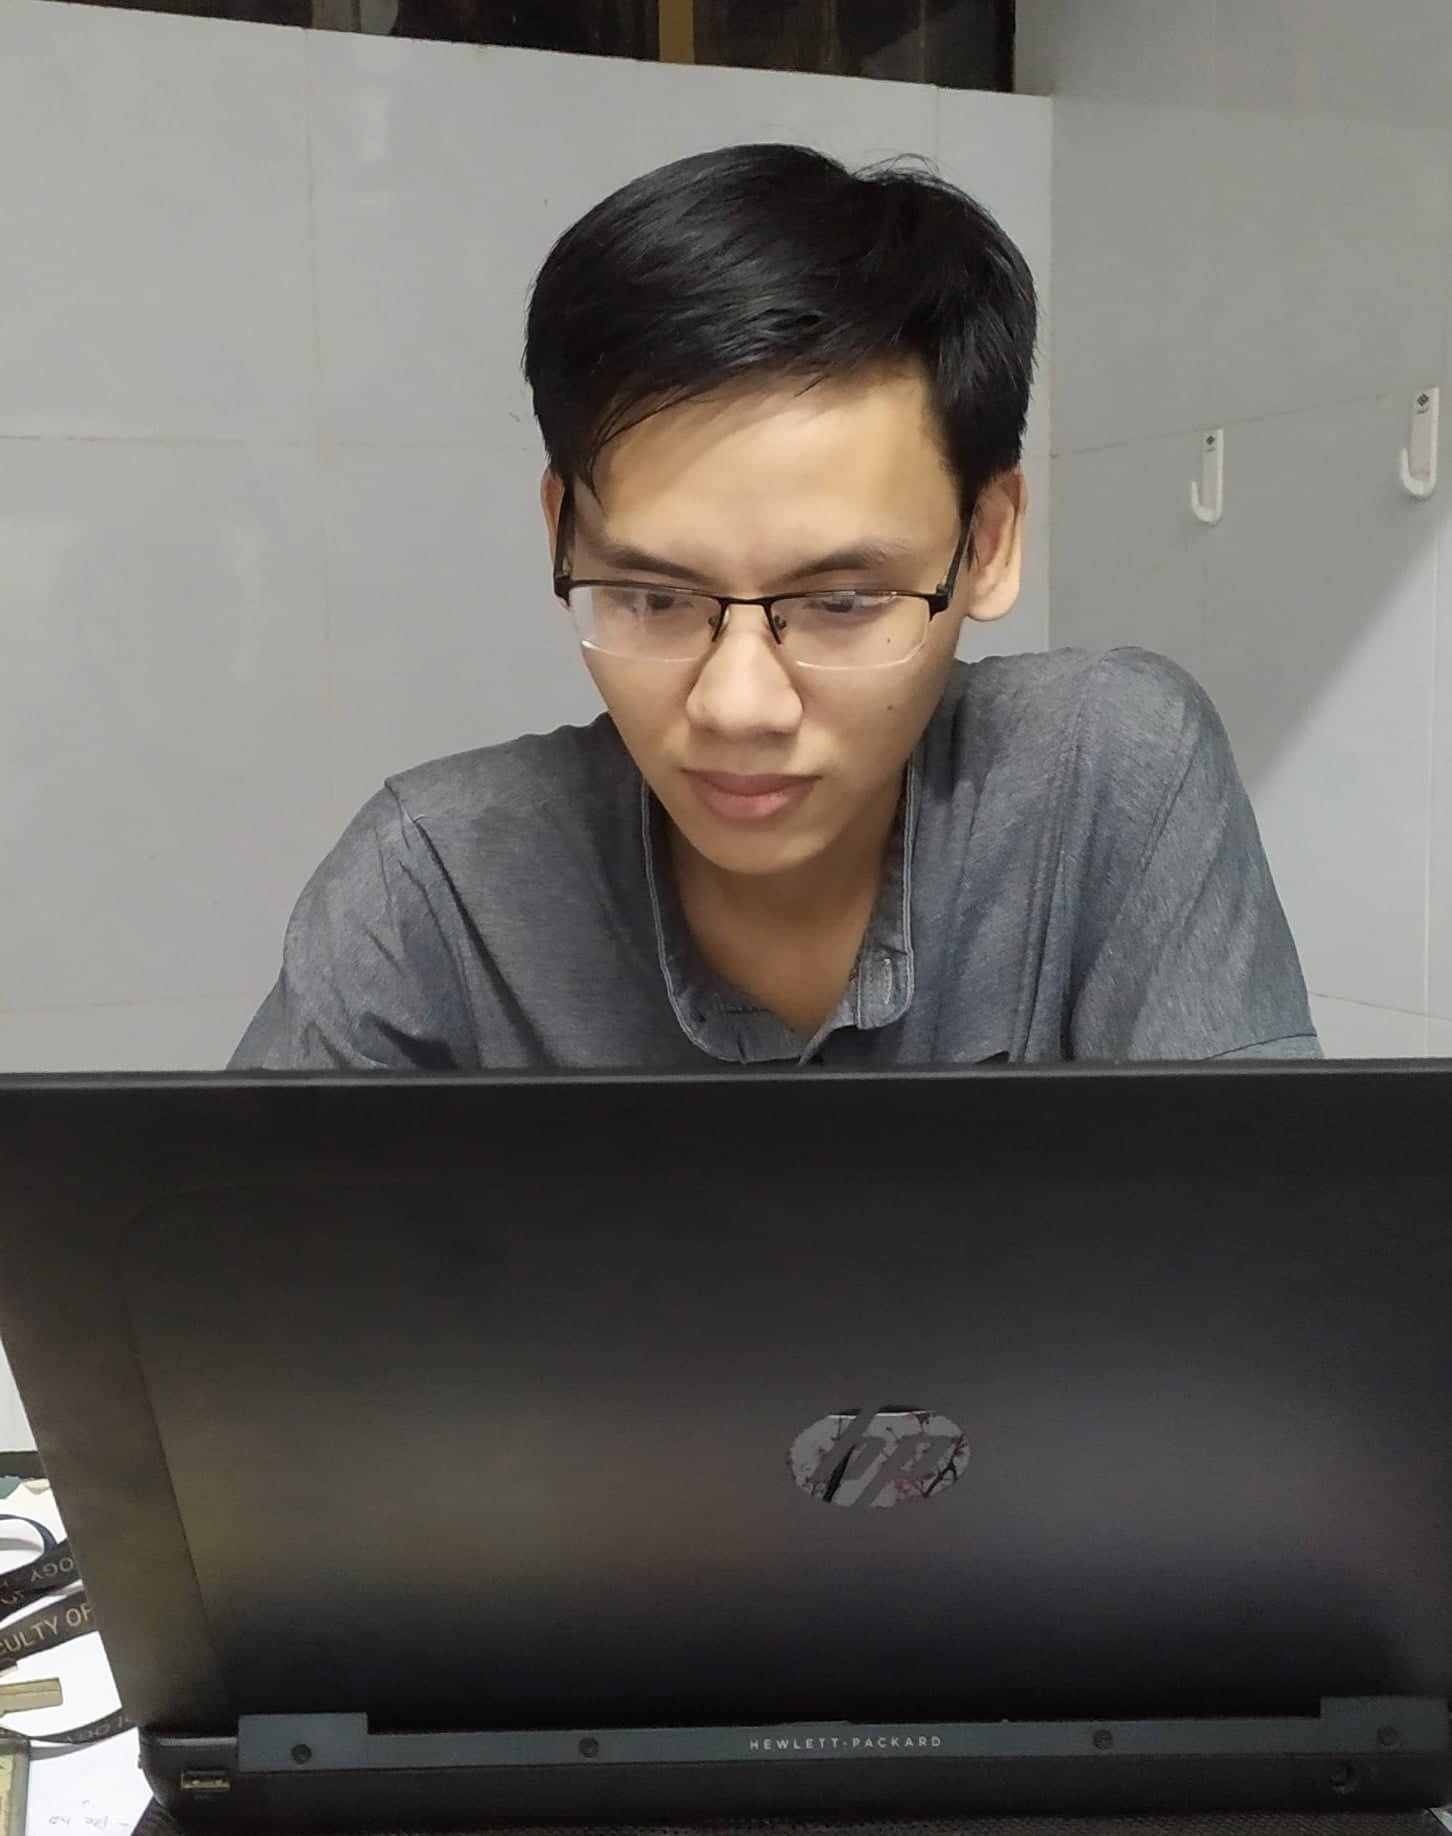
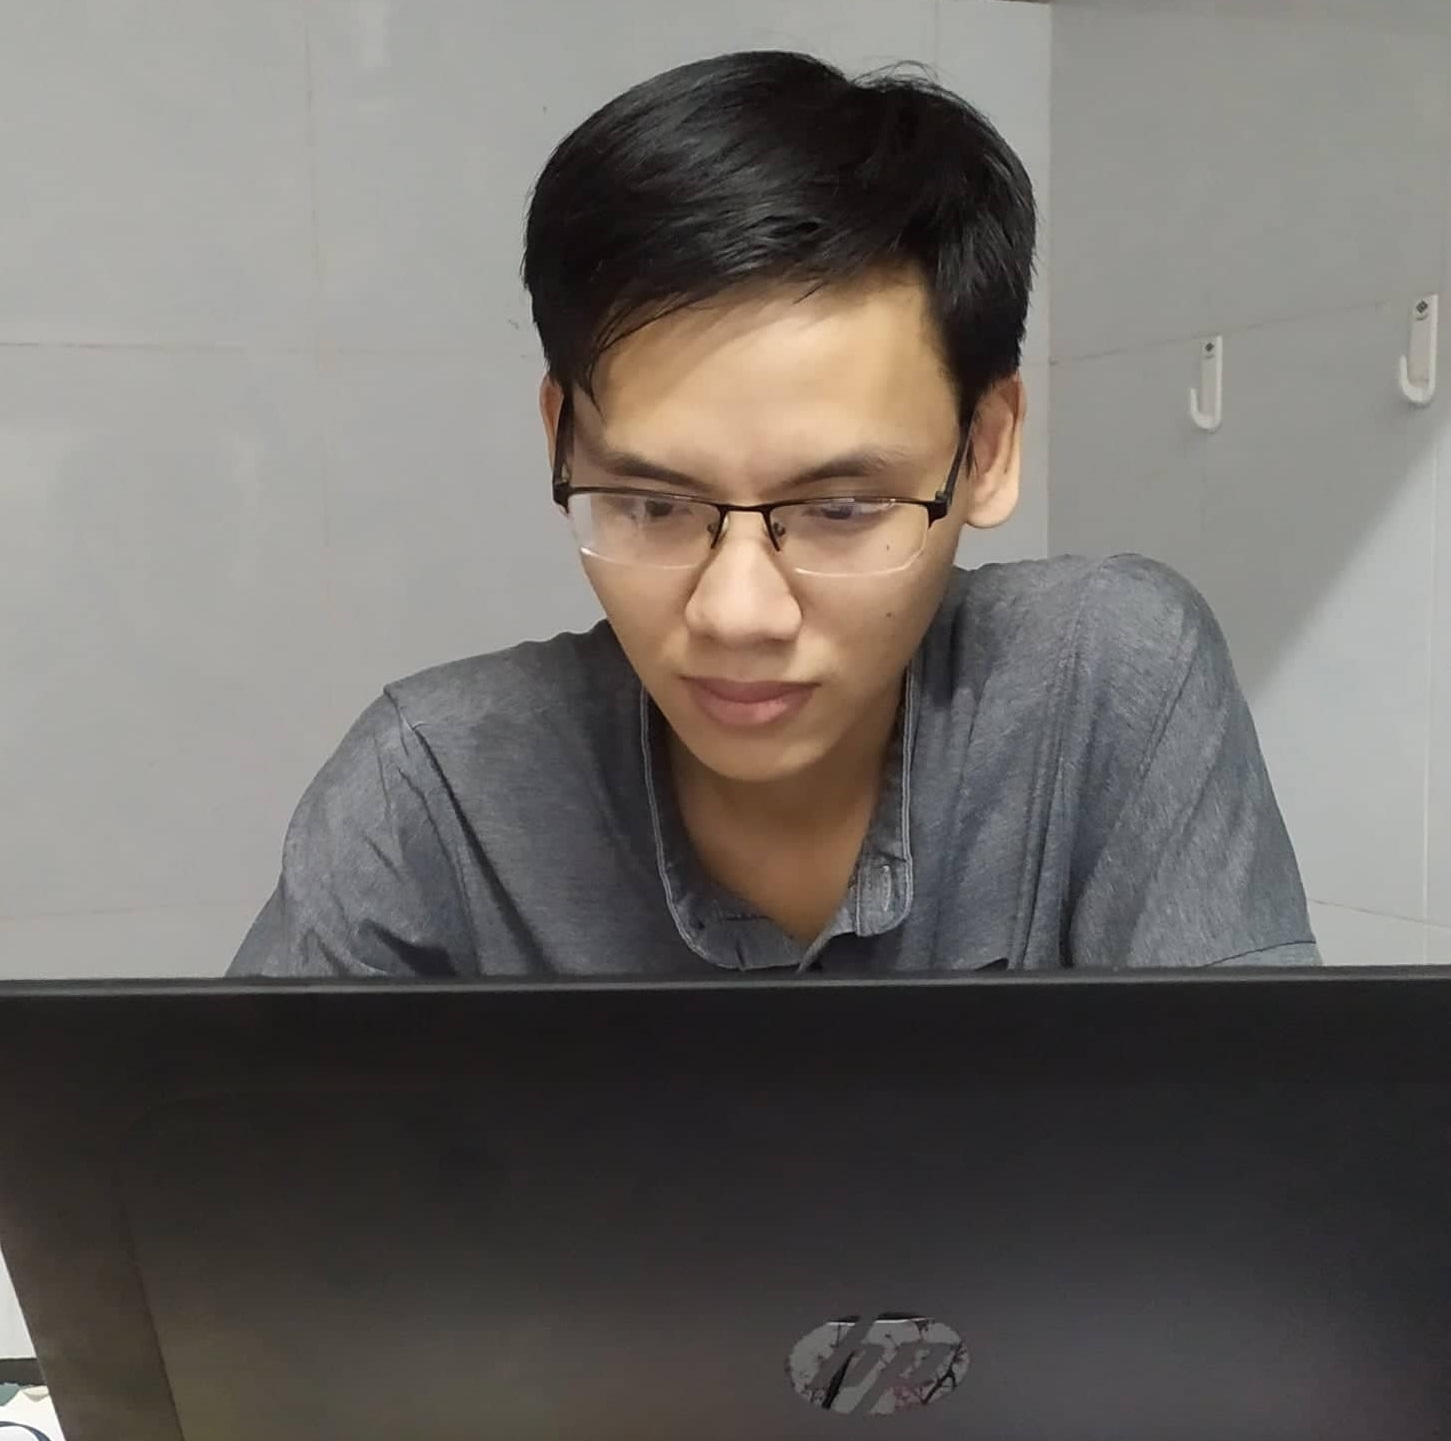
change

diff --git a/index.html b/index.html
@@ -85,17 +85,16 @@
             <div class="container">
                 <div class="row about-container">
 
-                    <div class="col-lg-8 content order-lg-1 order-2">
+                    <div class="col-lg-6 content order-lg-1 order-2">
                         <h2 class="title">VĨ NHÂN</h2>
                         <p>
                             Vĩ Nhân, nơi hội tụ của những con người khác biệt. "Sống và làm việc theo hiến pháp và pháp
-                            luật Việt Nam"
-                            là tôn chỉ cho mọi quyết đinh của nhóm. Nhưng điều đó là chưa đủ để một nhóm phát huy hết
-                            khả năng. Vì
-                            vậy những nguyên tắc sau được hình thành:
+                            luật Việt Nam". Nhóm chúng mình gồm 4 thành viên được thành lập vào ngày 12/07/2019. Chúng mình là
+                            những chàng trai vui vẻ, hòa đồng, yêu code và yêu những phần mềm cũng như việc tạo ra chúng. Từ bỏ
+                            không có trong từ điển của bọn mình, cùng nhau bọn mình sẽ làm nên những điều khác biệt!
                         </p>
 
-                        <div class="icon-box wow fadeInUp">
+                        <!-- <div class="icon-box wow fadeInUp">
                             <div class="icon"><i class="fa fa-clock-o"></i></i></div>
                             <p class="description">Hãy đúng giờ, điều đó giúp cho các thành viên khác trong nhóm làm
                                 việc không phải
@@ -124,11 +123,13 @@
                                 thực tế đến đâu. Cũng đừng gắn mỗi cá nhân với ý kiến của họ, chỉ thảo luận về ý kiến
                                 thôi, đừng chỉ
                                 trích riêng ai cả.</p>
-                        </div>
+                        </div> -->
                     </div>
 
-                    <div class="col-lg-4 order-lg-2 order-1 wow fadeInRight d-flex align-items-center">
-                        <div class="background"></div>
+                    <div class="col-lg-6 order-lg-2 order-1 wow fadeInRight d-flex justify-content-start">
+                        <div>
+                          <img class="full-image" src="/img/info_team.jpg"/>
+                        </div>
                     </div>
                 </div>
 

diff --git a/public/css/style.css b/public/css/style.css
@@ -503,7 +503,7 @@ body.mobile-nav-active #mobile-nav-toggle {
 #about .about-container .background {
   width: 100%;
   min-height: 300px;
-  background: url(../img/about-img.jpg) center top no-repeat;
+  background: url(../img/info_team.jpg);
   margin-bottom: 10px;
 }
 
